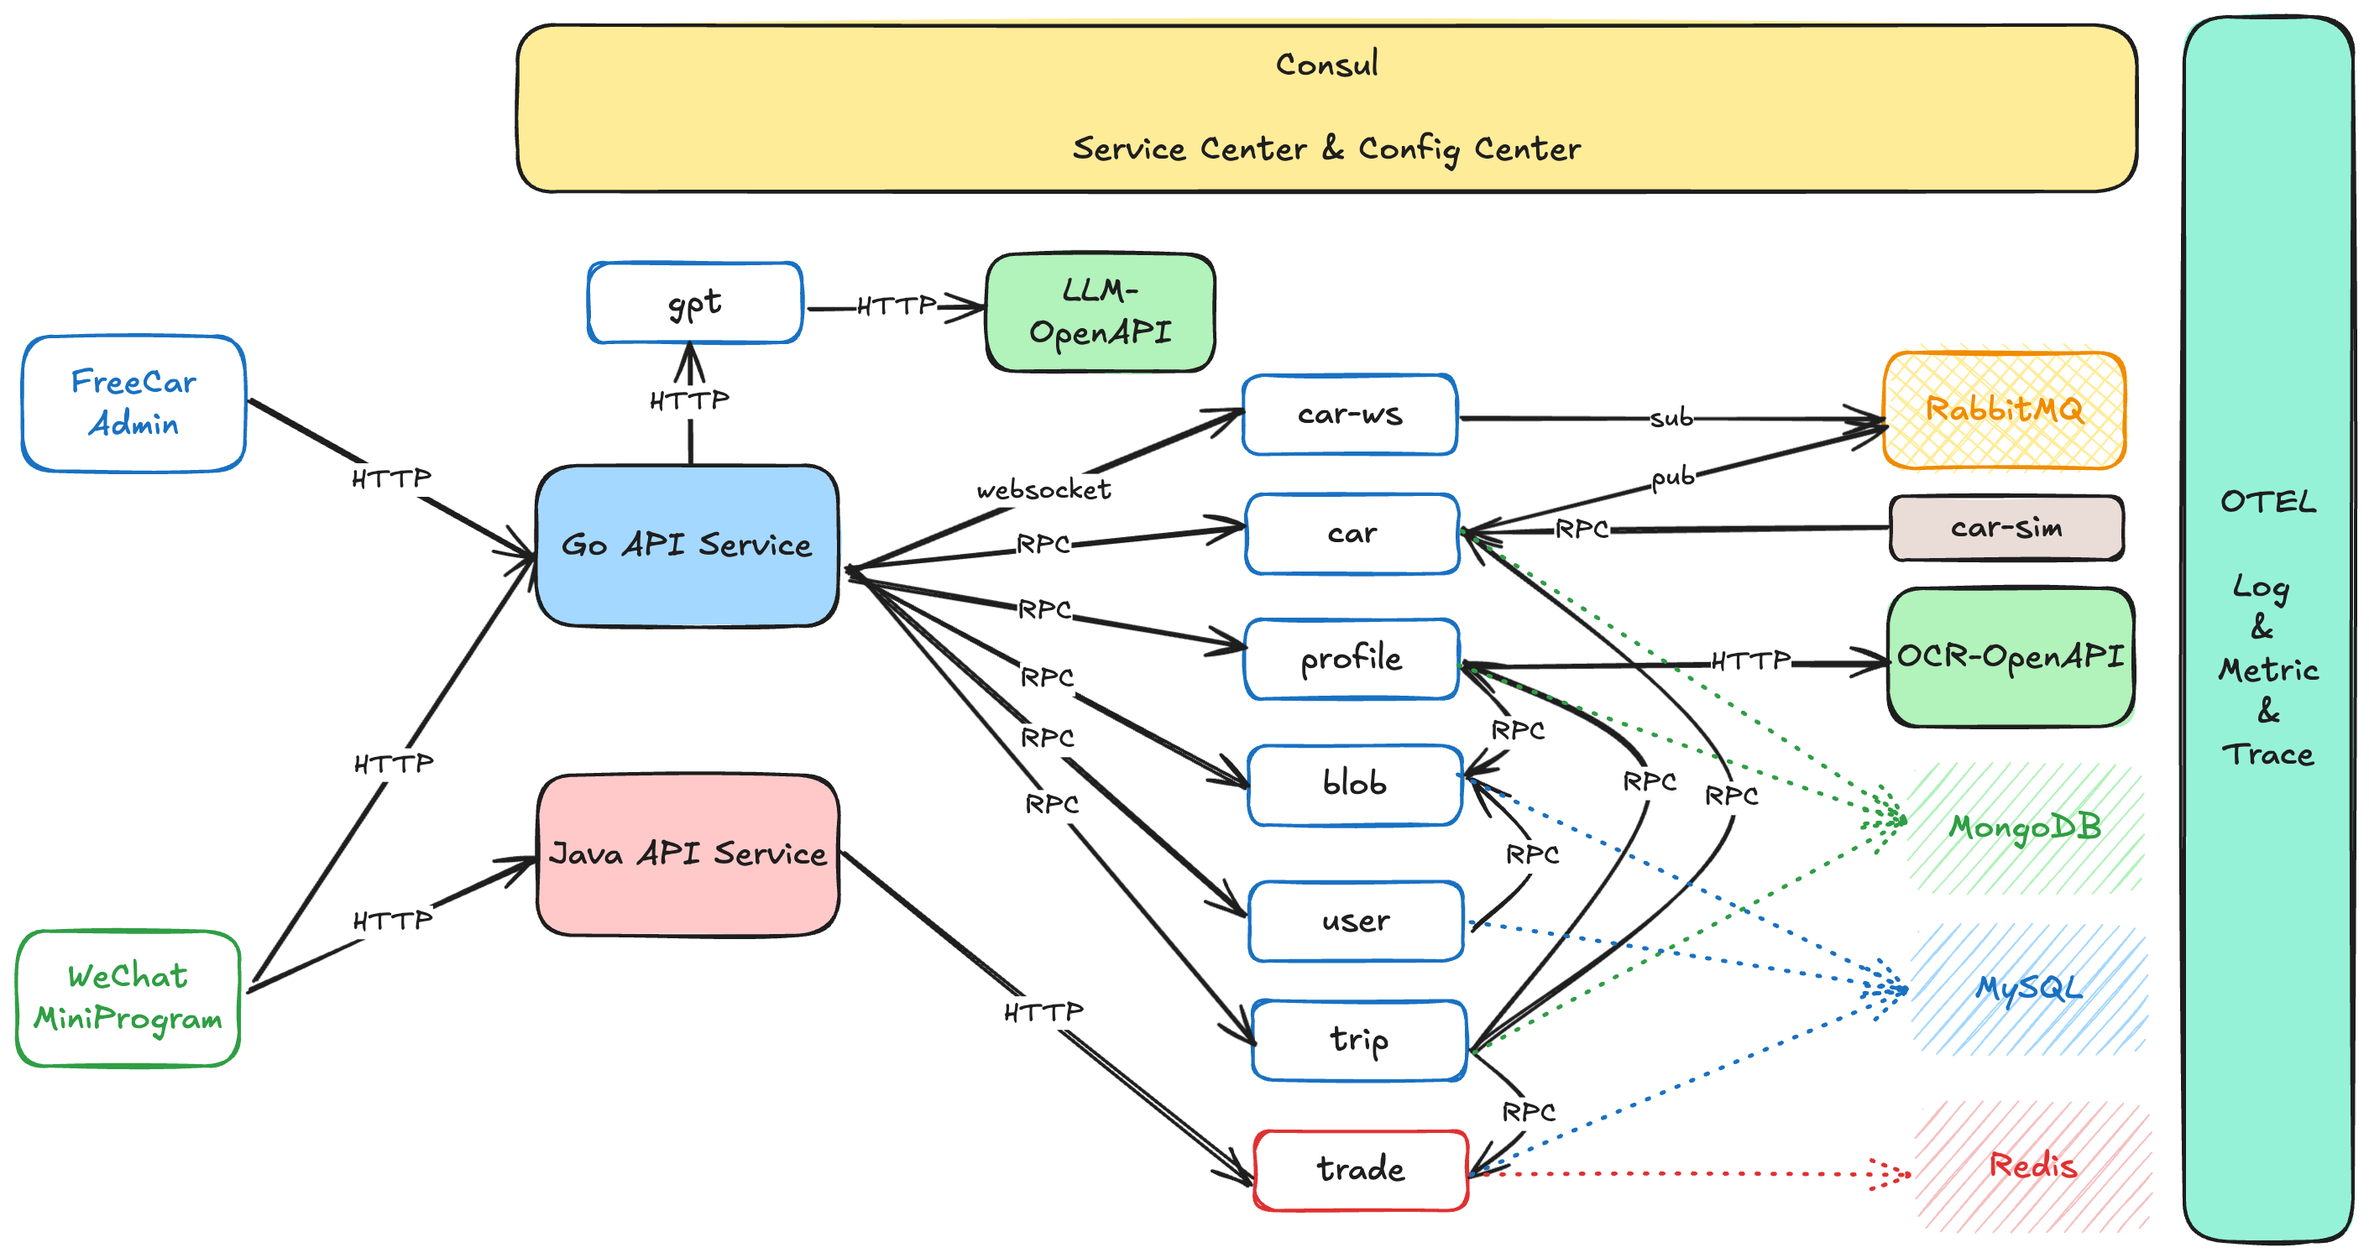
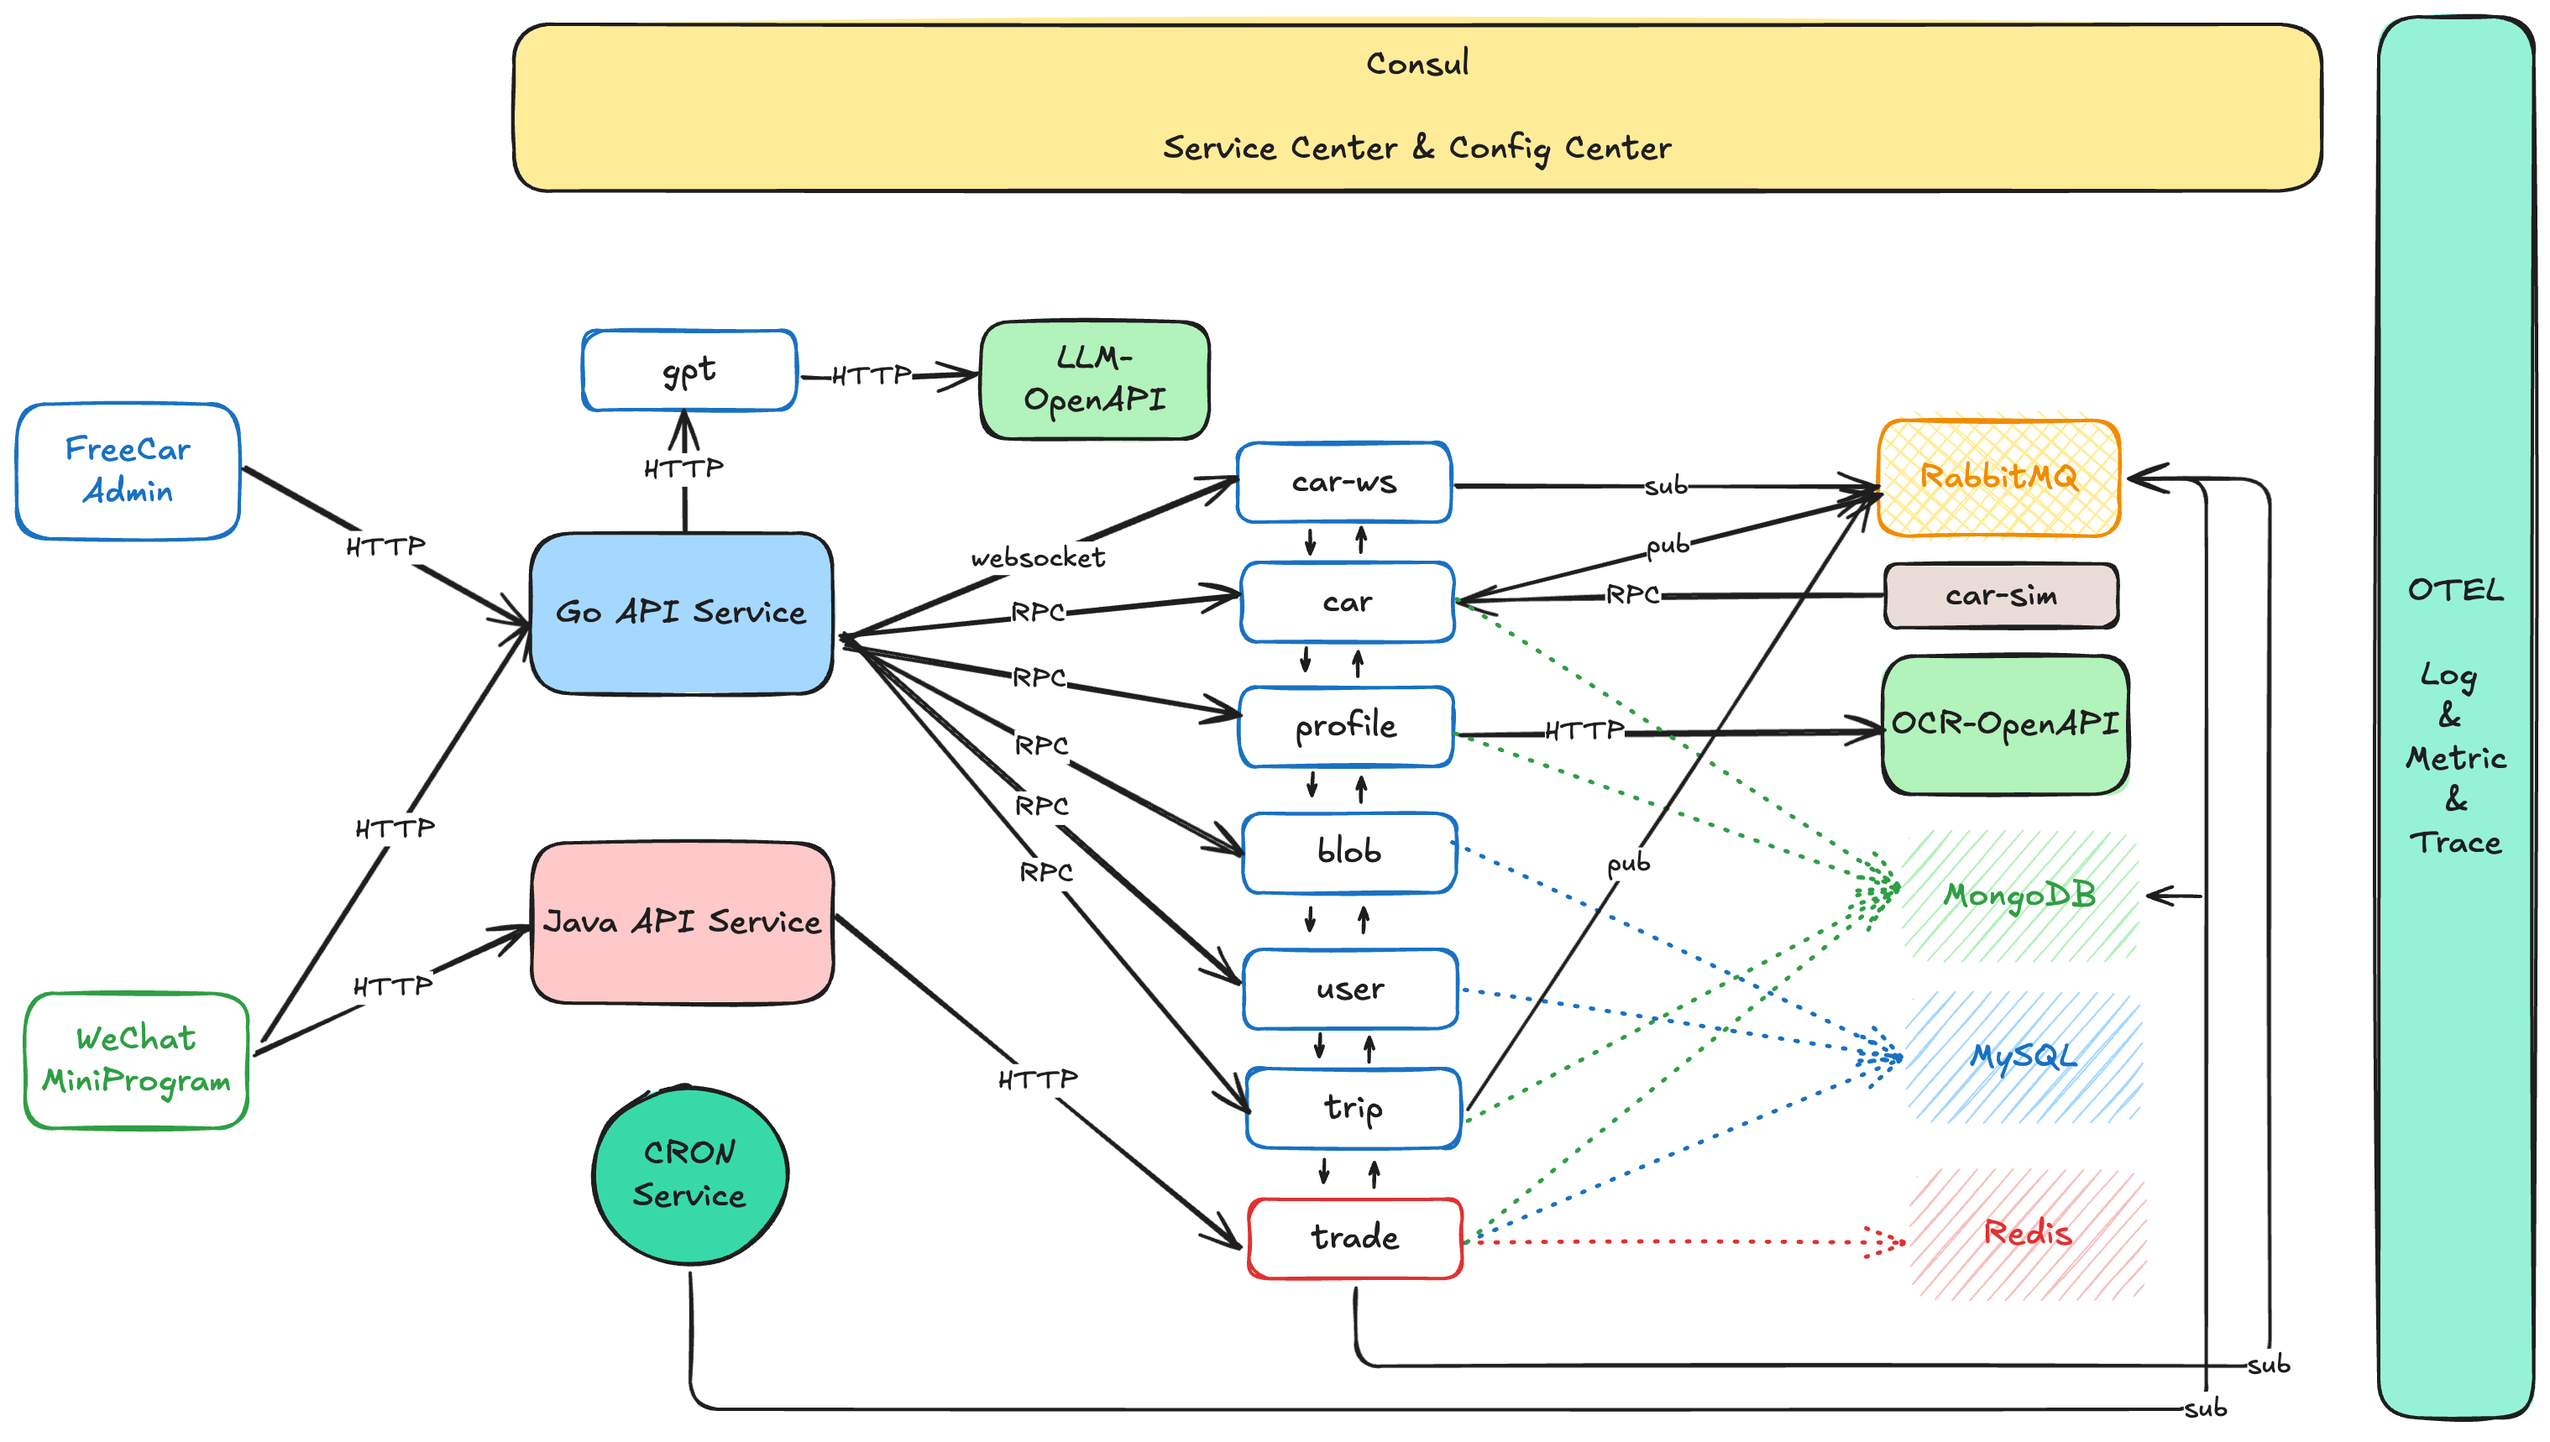
fix: data

Changed region(s): [[0.0, 0.0, 0.9979, 0.982], [0.0, 0.5217, 0.4366, 0.8899], [0.9355, 0.982, 0.9979, 1.0]]

diff --git a/server/cmd/profile/pkg/ocr/client.go b/server/cmd/profile/pkg/ocr/client.go
@@ -40,6 +40,9 @@ func (l *LicenseManager) GetLicenseInfo(url string) (*base.Identity, error) {
 		hlog.Error("new hertz client error", err)
 		return nil, err
 	}
+	if config.GlobalServerConfig.OCRConfig.MockEnable {
+		url = config.GlobalServerConfig.OCRConfig.MockUrl
+	}
 	ocrUrl := fmt.Sprintf("%s?access_token=%s&url=%s",
 		consts.OCRUrl, config.GlobalServerConfig.OCRConfig.AccessToken, url)
 	_, body, err := c.Post(context.Background(), nil, ocrUrl, nil)
@@ -65,7 +68,7 @@ func (l *LicenseManager) GetLicenseInfo(url string) (*base.Identity, error) {
 	year, _ := strconv.Atoi(sBirth[0:4])
 	month, _ := strconv.Atoi(sBirth[4:6])
 	day, _ := strconv.Atoi(sBirth[6:])
-	birthDateMillis := time.Date(year, time.Month(month), day, 0, 0, 0, 0, time.Local).Unix()
+	birthDateMillis := time.Date(year, time.Month(month), day, 0, 0, 0, 0, time.Local).UnixMilli()
 	identity := &base.Identity{
 		LicNumber:       res.WordsResult.LicenseNum.Words,
 		Name:            res.WordsResult.Name.Words,

diff --git a/server/cmd/profile/initialize/blob_service.go b/server/cmd/profile/initialize/blob_service.go
@@ -1,7 +1,6 @@
 package initialize
 
 import (
-	"context"
 	"fmt"
 
 	"github.com/CyanAsterisk/FreeCar/server/cmd/profile/config"
@@ -39,7 +38,6 @@ func InitBlob() blobservice.Client {
 		client.WithSuite(tracing.NewClientSuite()),
 		client.WithClientBasicInfo(&rpcinfo.EndpointBasicInfo{ServiceName: config.GlobalServerConfig.BlobSrvInfo.Name}),
 	)
-	fmt.Println(r.Resolve(context.Background(), "trade_srv-rpc"))
 
 	if err != nil {
 		klog.Fatalf("ERROR: cannot init client: %v\n", err)

diff --git a/server/cmd/profile/config/config.go b/server/cmd/profile/config/config.go
@@ -21,6 +21,8 @@ type OtelConfig struct {
 
 type OCRConfig struct {
 	AccessToken string `mapstructure:"access_token" json:"access_token"`
+	MockEnable  bool   `mapstructure:"mock_enable" json:"mock_enable"`
+	MockUrl     string `mapstructure:"mock_url" json:"mock_url"`
 }
 
 type ServerConfig struct {
